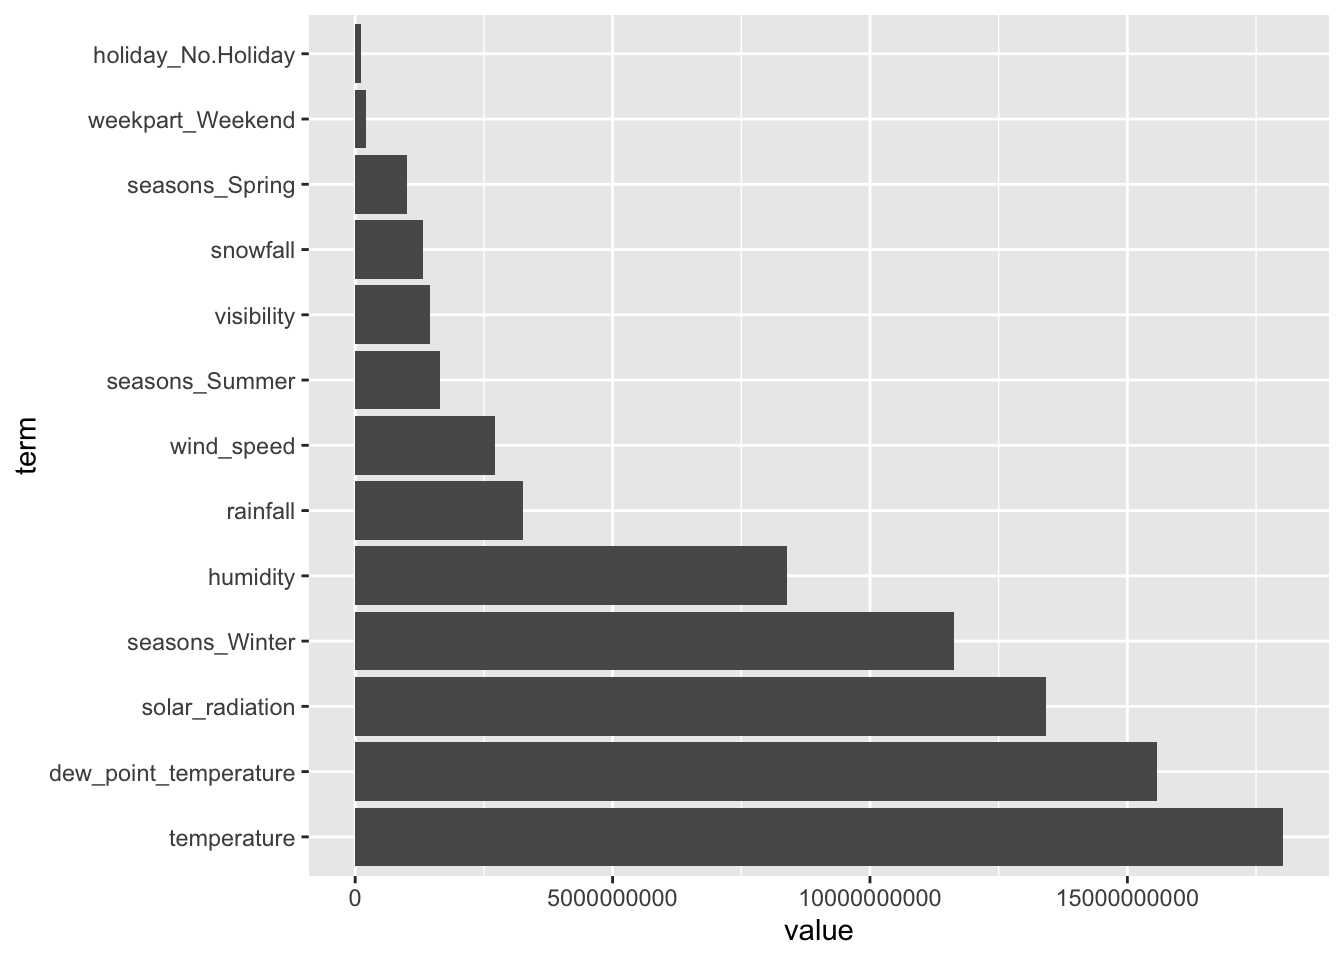
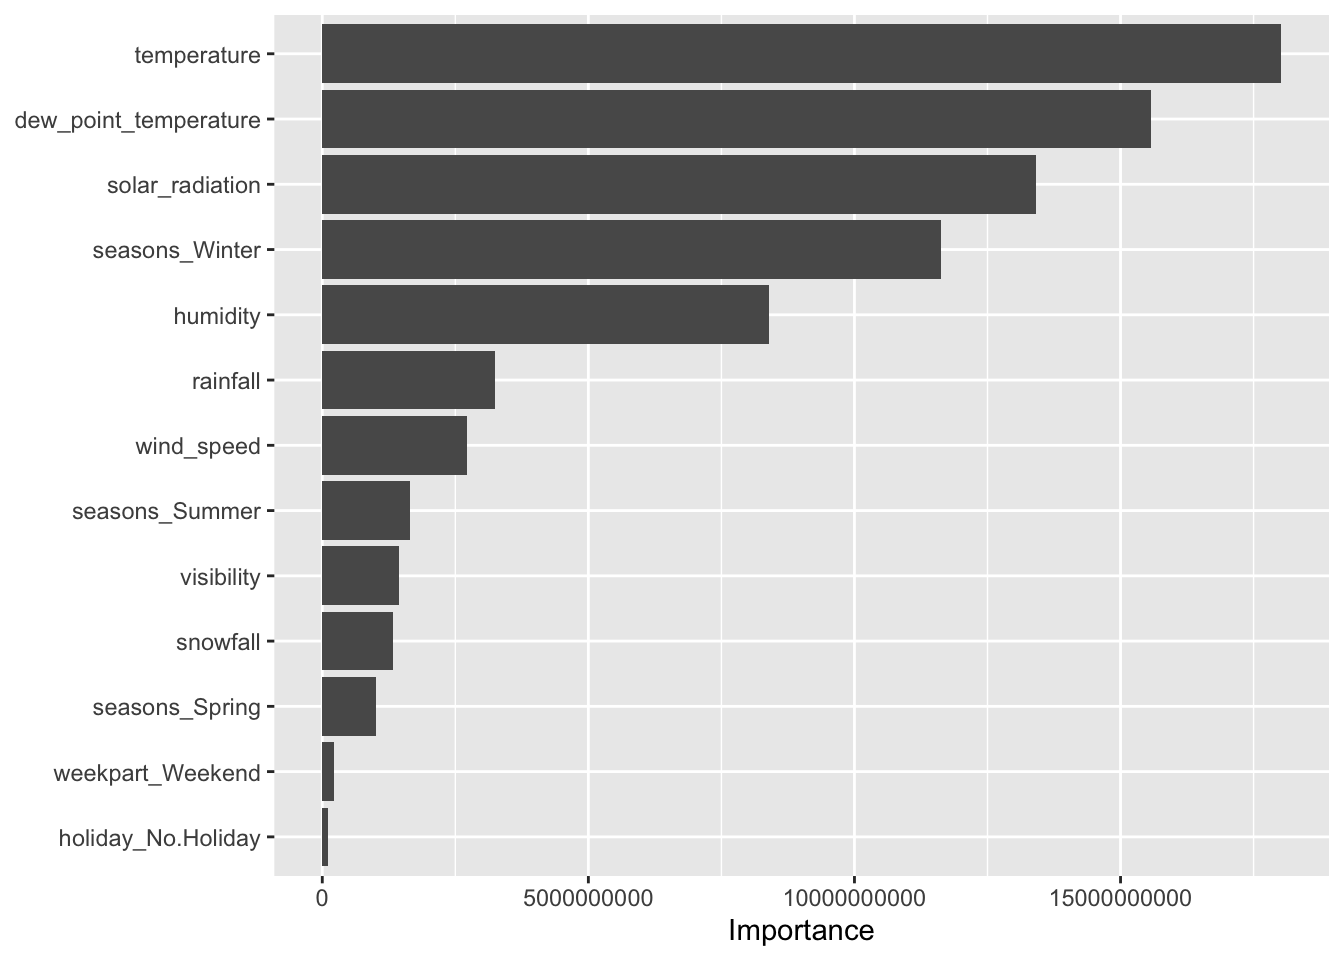
update random forest output

diff --git a/docs/modeling_practice.html b/docs/modeling_practice.html
@@ -150,8 +150,9 @@ pre > code.sourceCode > span > a:first-child::before { text-decoration: underlin
 <span id="cb1-5"><a href="#cb1-5" aria-hidden="true" tabindex="-1"></a><span class="fu">library</span>(naniar)</span>
 <span id="cb1-6"><a href="#cb1-6" aria-hidden="true" tabindex="-1"></a><span class="fu">library</span>(skimr)</span>
 <span id="cb1-7"><a href="#cb1-7" aria-hidden="true" tabindex="-1"></a><span class="fu">library</span>(pastecs)</span>
-<span id="cb1-8"><a href="#cb1-8" aria-hidden="true" tabindex="-1"></a><span class="fu">options</span>(<span class="at">scipen =</span> <span class="dv">999</span>, <span class="at">digits =</span> <span class="dv">2</span>)</span>
-<span id="cb1-9"><a href="#cb1-9" aria-hidden="true" tabindex="-1"></a><span class="fu">tidymodels_prefer</span>()</span></code><button title="Copy to Clipboard" class="code-copy-button"><i class="bi"></i></button></pre></div>
+<span id="cb1-8"><a href="#cb1-8" aria-hidden="true" tabindex="-1"></a><span class="fu">library</span>(vip)</span>
+<span id="cb1-9"><a href="#cb1-9" aria-hidden="true" tabindex="-1"></a><span class="fu">options</span>(<span class="at">scipen =</span> <span class="dv">999</span>, <span class="at">digits =</span> <span class="dv">2</span>)</span>
+<span id="cb1-10"><a href="#cb1-10" aria-hidden="true" tabindex="-1"></a><span class="fu">tidymodels_prefer</span>()</span></code><button title="Copy to Clipboard" class="code-copy-button"><i class="bi"></i></button></pre></div>
 </div>
 </section>
 <section id="read-data" class="level2">
@@ -1874,10 +1875,12 @@ solar_radiation                 1.000</code></pre>
 <div class="cell">
 <div class="sourceCode cell-code" id="cb99"><pre class="sourceCode r code-with-copy"><code class="sourceCode r"><span id="cb99-1"><a href="#cb99-1" aria-hidden="true" tabindex="-1"></a>bike_bag_final_model <span class="ot">&lt;-</span> <span class="fu">extract_fit_engine</span>(bike_bag_final_fit) </span>
 <span id="cb99-2"><a href="#cb99-2" aria-hidden="true" tabindex="-1"></a>bike_bag_final_model<span class="sc">$</span>imp <span class="sc">|&gt;</span></span>
-<span id="cb99-3"><a href="#cb99-3" aria-hidden="true" tabindex="-1"></a> <span class="fu">mutate</span>(<span class="at">term =</span> <span class="fu">factor</span>(term, <span class="at">levels =</span> term)) <span class="sc">|&gt;</span></span>
-<span id="cb99-4"><a href="#cb99-4" aria-hidden="true" tabindex="-1"></a> <span class="fu">ggplot</span>(<span class="fu">aes</span>(<span class="at">x =</span> term, <span class="at">y =</span> value)) <span class="sc">+</span> </span>
-<span id="cb99-5"><a href="#cb99-5" aria-hidden="true" tabindex="-1"></a> <span class="fu">geom_bar</span>(<span class="at">stat =</span><span class="st">"identity"</span>) <span class="sc">+</span></span>
-<span id="cb99-6"><a href="#cb99-6" aria-hidden="true" tabindex="-1"></a> <span class="fu">coord_flip</span>()</span></code><button title="Copy to Clipboard" class="code-copy-button"><i class="bi"></i></button></pre></div>
+<span id="cb99-3"><a href="#cb99-3" aria-hidden="true" tabindex="-1"></a>  <span class="fu">mutate</span>(<span class="at">term =</span> <span class="fu">factor</span>(term, <span class="at">levels =</span> term)) <span class="sc">|&gt;</span></span>
+<span id="cb99-4"><a href="#cb99-4" aria-hidden="true" tabindex="-1"></a>  <span class="fu">ggplot</span>(<span class="fu">aes</span>(<span class="at">x =</span> <span class="fu">reorder</span>(term, value), <span class="at">y =</span> value)) <span class="sc">+</span> </span>
+<span id="cb99-5"><a href="#cb99-5" aria-hidden="true" tabindex="-1"></a>  <span class="fu">geom_bar</span>(<span class="at">stat =</span><span class="st">"identity"</span>) <span class="sc">+</span></span>
+<span id="cb99-6"><a href="#cb99-6" aria-hidden="true" tabindex="-1"></a>  <span class="fu">coord_flip</span>() <span class="sc">+</span></span>
+<span id="cb99-7"><a href="#cb99-7" aria-hidden="true" tabindex="-1"></a>  <span class="fu">theme</span>(<span class="at">axis.title.y =</span> <span class="fu">element_blank</span>()) <span class="sc">+</span></span>
+<span id="cb99-8"><a href="#cb99-8" aria-hidden="true" tabindex="-1"></a>  <span class="fu">ylab</span>(<span class="st">"Importance"</span>)</span></code><button title="Copy to Clipboard" class="code-copy-button"><i class="bi"></i></button></pre></div>
 <div class="cell-output-display">
 <div>
 <figure class="figure">
@@ -1898,7 +1901,7 @@ solar_radiation                 1.000</code></pre>
 <div class="sourceCode cell-code" id="cb101"><pre class="sourceCode r code-with-copy"><code class="sourceCode r"><span id="cb101-1"><a href="#cb101-1" aria-hidden="true" tabindex="-1"></a>rf_mod <span class="ot">&lt;-</span> <span class="fu">rand_forest</span>(<span class="at">mtry =</span> <span class="fu">tune</span>(),</span>
 <span id="cb101-2"><a href="#cb101-2" aria-hidden="true" tabindex="-1"></a>                      <span class="at">min_n =</span> <span class="dv">10</span>,</span>
 <span id="cb101-3"><a href="#cb101-3" aria-hidden="true" tabindex="-1"></a>                      <span class="at">trees =</span> <span class="fu">tune</span>()) <span class="sc">|&gt;</span></span>
-<span id="cb101-4"><a href="#cb101-4" aria-hidden="true" tabindex="-1"></a>  <span class="fu">set_engine</span>(<span class="st">"ranger"</span>) <span class="sc">|&gt;</span></span>
+<span id="cb101-4"><a href="#cb101-4" aria-hidden="true" tabindex="-1"></a>  <span class="fu">set_engine</span>(<span class="st">"ranger"</span>, <span class="at">importance =</span> <span class="st">"impurity"</span>) <span class="sc">|&gt;</span></span>
 <span id="cb101-5"><a href="#cb101-5" aria-hidden="true" tabindex="-1"></a>  <span class="fu">set_mode</span>(<span class="st">"regression"</span>)</span></code><button title="Copy to Clipboard" class="code-copy-button"><i class="bi"></i></button></pre></div>
 </div>
 <div class="cell">
@@ -1965,18 +1968,30 @@ solar_radiation                 1.000</code></pre>
 </div>
 </div>
 <div class="cell">
-<div class="sourceCode cell-code" id="cb110"><pre class="sourceCode r code-with-copy"><code class="sourceCode r"><span id="cb110-1"><a href="#cb110-1" aria-hidden="true" tabindex="-1"></a>rf_metrics <span class="ot">&lt;-</span></span>
-<span id="cb110-2"><a href="#cb110-2" aria-hidden="true" tabindex="-1"></a>  bike_rf_final_fit <span class="sc">|&gt;</span></span>
-<span id="cb110-3"><a href="#cb110-3" aria-hidden="true" tabindex="-1"></a>  <span class="fu">collect_metrics</span>()</span></code><button title="Copy to Clipboard" class="code-copy-button"><i class="bi"></i></button></pre></div>
+<div class="sourceCode cell-code" id="cb110"><pre class="sourceCode r code-with-copy"><code class="sourceCode r"><span id="cb110-1"><a href="#cb110-1" aria-hidden="true" tabindex="-1"></a>bike_rf_final_model <span class="ot">&lt;-</span> <span class="fu">extract_fit_engine</span>(bike_rf_final_fit) </span>
+<span id="cb110-2"><a href="#cb110-2" aria-hidden="true" tabindex="-1"></a>bike_rf_final_model <span class="sc">|&gt;</span></span>
+<span id="cb110-3"><a href="#cb110-3" aria-hidden="true" tabindex="-1"></a>  <span class="fu">vip</span>(<span class="at">num_features =</span> <span class="dv">20</span>)</span></code><button title="Copy to Clipboard" class="code-copy-button"><i class="bi"></i></button></pre></div>
+<div class="cell-output-display">
+<div>
+<figure class="figure">
+<p><img src="modeling_practice_files/figure-html/unnamed-chunk-81-1.png" class="img-fluid figure-img" width="672"></p>
+</figure>
+</div>
+</div>
+</div>
+<div class="cell">
+<div class="sourceCode cell-code" id="cb111"><pre class="sourceCode r code-with-copy"><code class="sourceCode r"><span id="cb111-1"><a href="#cb111-1" aria-hidden="true" tabindex="-1"></a>rf_metrics <span class="ot">&lt;-</span></span>
+<span id="cb111-2"><a href="#cb111-2" aria-hidden="true" tabindex="-1"></a>  bike_rf_final_fit <span class="sc">|&gt;</span></span>
+<span id="cb111-3"><a href="#cb111-3" aria-hidden="true" tabindex="-1"></a>  <span class="fu">collect_metrics</span>()</span></code><button title="Copy to Clipboard" class="code-copy-button"><i class="bi"></i></button></pre></div>
 </div>
 </section>
 <section id="select-the-best-model" class="level2">
 <h2 class="anchored" data-anchor-id="select-the-best-model">Select the Best Model</h2>
 <div class="cell">
-<div class="sourceCode cell-code" id="cb111"><pre class="sourceCode r code-with-copy"><code class="sourceCode r"><span id="cb111-1"><a href="#cb111-1" aria-hidden="true" tabindex="-1"></a><span class="fu">rbind</span>(mlr_metrics, lasso_metrics, tree_metrics, bag_metrics, rf_metrics) <span class="sc">|&gt;</span></span>
-<span id="cb111-2"><a href="#cb111-2" aria-hidden="true" tabindex="-1"></a>  <span class="fu">filter</span>(.metric <span class="sc">==</span> <span class="st">"rmse"</span>) <span class="sc">|&gt;</span></span>
-<span id="cb111-3"><a href="#cb111-3" aria-hidden="true" tabindex="-1"></a>  <span class="fu">mutate</span>(<span class="at">model =</span> <span class="fu">c</span>(<span class="st">"MLR"</span>, <span class="st">"LASSO"</span>, <span class="st">"Tree"</span>, <span class="st">"Bagged Tree"</span>, <span class="st">"Random Forest"</span>)) <span class="sc">|&gt;</span></span>
-<span id="cb111-4"><a href="#cb111-4" aria-hidden="true" tabindex="-1"></a>  <span class="fu">select</span>(model, <span class="st">"mean_rmse"</span> <span class="ot">=</span> .estimate)</span></code><button title="Copy to Clipboard" class="code-copy-button"><i class="bi"></i></button></pre></div>
+<div class="sourceCode cell-code" id="cb112"><pre class="sourceCode r code-with-copy"><code class="sourceCode r"><span id="cb112-1"><a href="#cb112-1" aria-hidden="true" tabindex="-1"></a><span class="fu">rbind</span>(mlr_metrics, lasso_metrics, tree_metrics, bag_metrics, rf_metrics) <span class="sc">|&gt;</span></span>
+<span id="cb112-2"><a href="#cb112-2" aria-hidden="true" tabindex="-1"></a>  <span class="fu">filter</span>(.metric <span class="sc">==</span> <span class="st">"rmse"</span>) <span class="sc">|&gt;</span></span>
+<span id="cb112-3"><a href="#cb112-3" aria-hidden="true" tabindex="-1"></a>  <span class="fu">mutate</span>(<span class="at">model =</span> <span class="fu">c</span>(<span class="st">"MLR"</span>, <span class="st">"LASSO"</span>, <span class="st">"Tree"</span>, <span class="st">"Bagged Tree"</span>, <span class="st">"Random Forest"</span>)) <span class="sc">|&gt;</span></span>
+<span id="cb112-4"><a href="#cb112-4" aria-hidden="true" tabindex="-1"></a>  <span class="fu">select</span>(model, <span class="st">"mean_rmse"</span> <span class="ot">=</span> .estimate)</span></code><button title="Copy to Clipboard" class="code-copy-button"><i class="bi"></i></button></pre></div>
 <div class="cell-output cell-output-stdout">
 <pre><code># A tibble: 5 × 2
   model         mean_rmse
